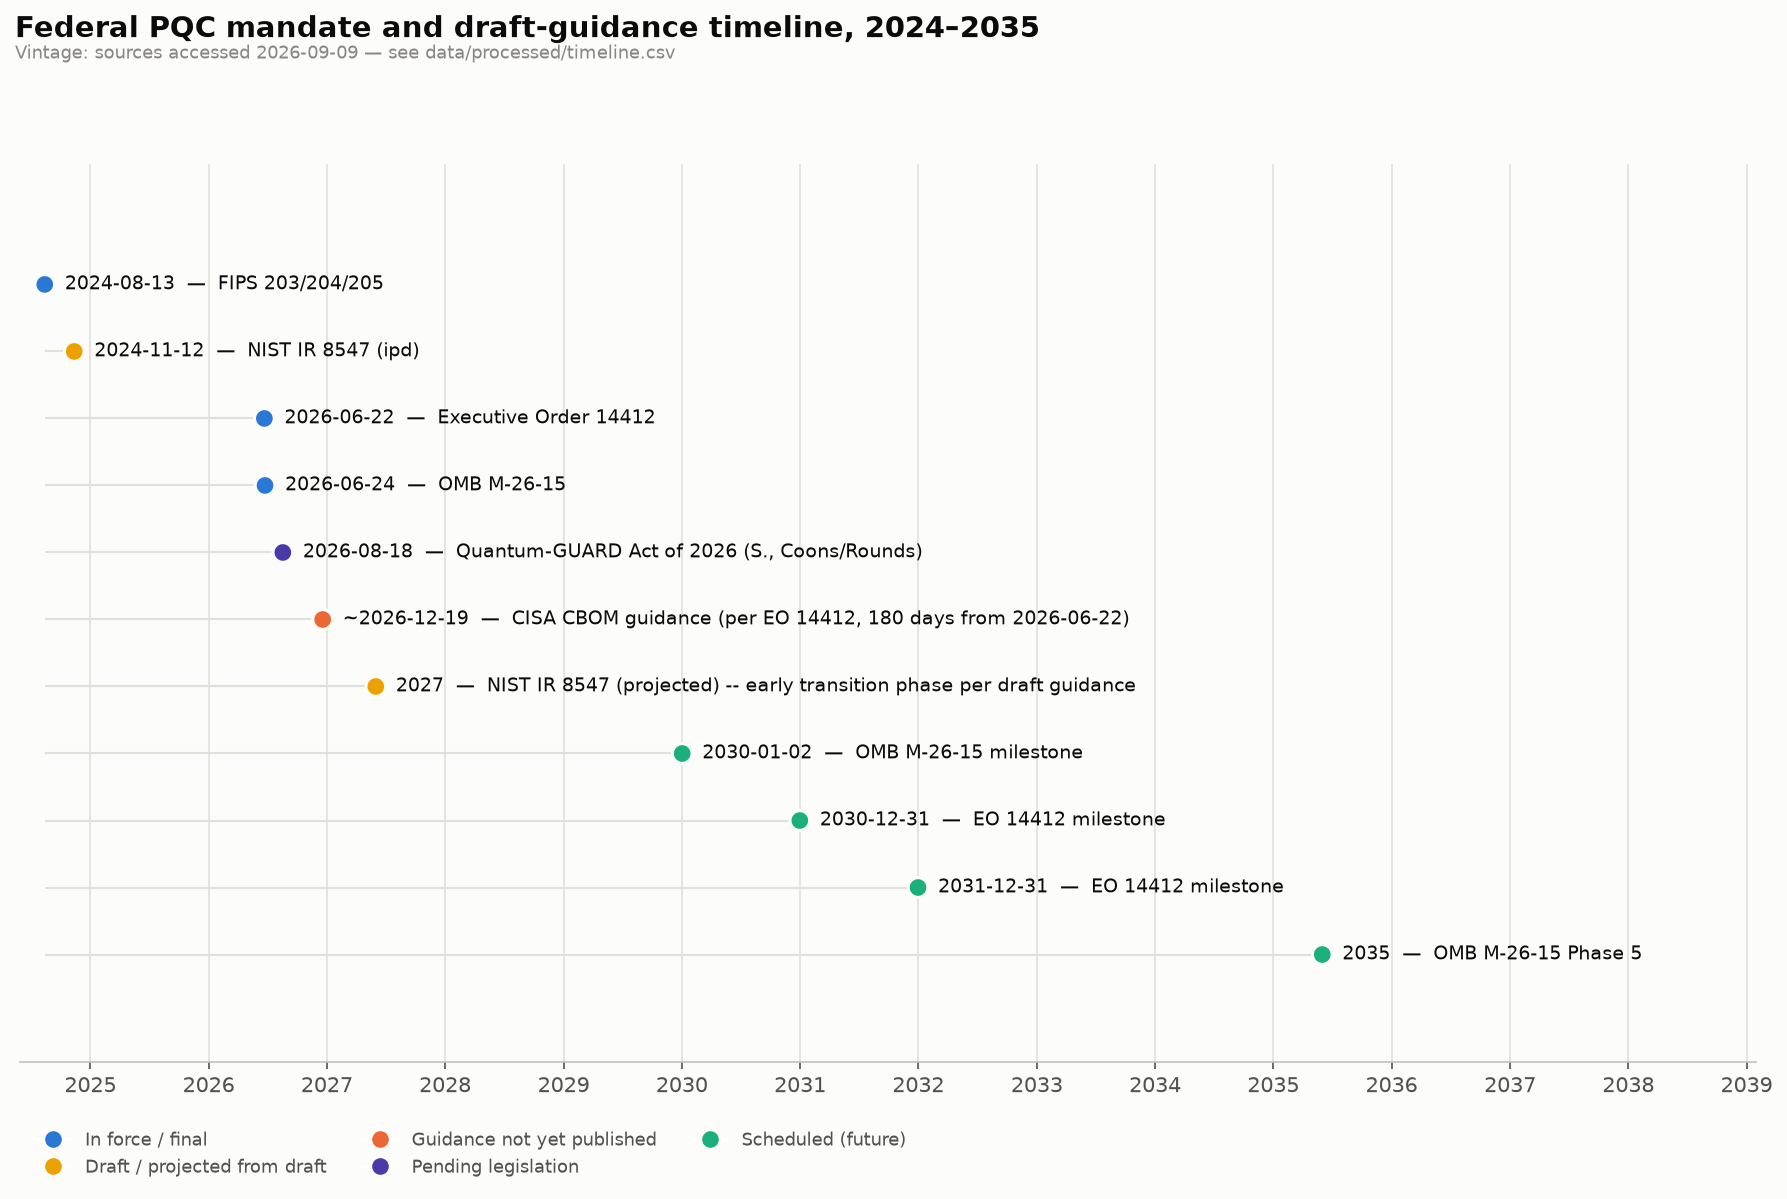
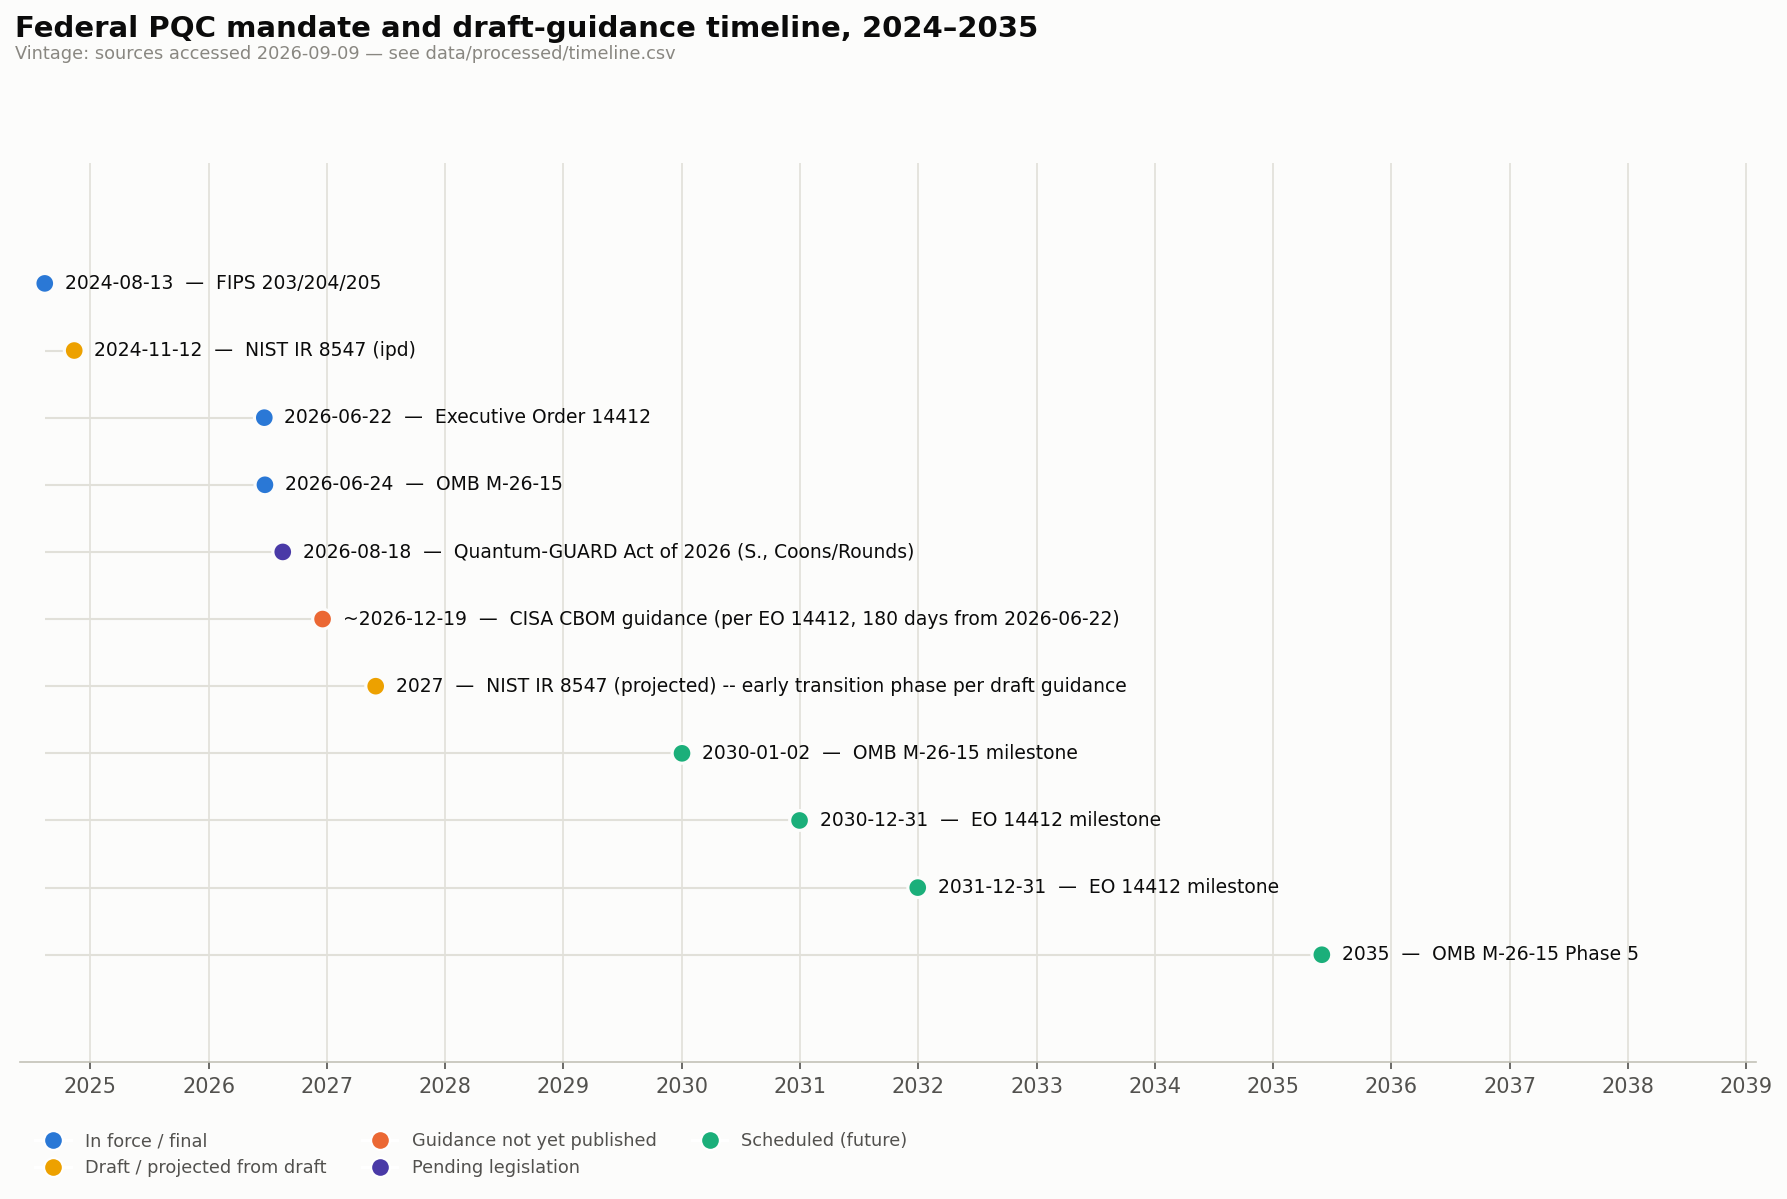
Update first-author affiliation

diff --git a/code/06_build_docx.js b/code/06_build_docx.js
@@ -55,7 +55,7 @@ const titleBlock = [
     new TextRun({ text: "Eria Othieno Pinyi" }), new TextRun({ text: "³ · " }),
     new TextRun({ text: "David Mike-Ewewie" }), new TextRun({ text: "⁴" }),
   ]}),
-  new Paragraph({ alignment: AlignmentType.CENTER, spacing: { after: 60 }, children: [new TextRun({ text: "¹ Independent Researcher, Odessa, Texas, USA", size: 18 })] }),
+  new Paragraph({ alignment: AlignmentType.CENTER, spacing: { after: 60 }, children: [new TextRun({ text: "¹ Independent Researcher - Critical Infrastructure, Odessa, Texas, USA", size: 18 })] }),
   new Paragraph({ alignment: AlignmentType.CENTER, spacing: { after: 60 }, children: [new TextRun({ text: "² Electrical and Electronic Engineering Department, Redeemer's University, Ede, Osun State, Nigeria", size: 18 })] }),
   new Paragraph({ alignment: AlignmentType.CENTER, spacing: { after: 60 }, children: [new TextRun({ text: "³ Computer Science and Engineering Department, University of Fairfax, USA", size: 18 })] }),
   new Paragraph({ alignment: AlignmentType.CENTER, spacing: { after: 200 }, children: [new TextRun({ text: "⁴ Computer Science Department, University of Texas Permian Basin, Odessa, Texas, USA", size: 18 })] }),
@@ -71,7 +71,7 @@ const titleBlock = [
     link("Friday.ikwuogu@gmail.com", "mailto:Friday.ikwuogu@gmail.com"),
   ]}),
   new Paragraph({ alignment: AlignmentType.CENTER, spacing: { after: 60 }, children: [
-    new TextRun({ text: "Affiliation: Independent Researcher, Odessa, Texas, USA", size: 18 }),
+    new TextRun({ text: "Affiliation: Independent Researcher - Critical Infrastructure, Odessa, Texas, USA", size: 18 }),
   ]}),
   new Paragraph({ alignment: AlignmentType.CENTER, spacing: { after: 300 }, children: [
     new TextRun({ text: "License: CC BY 4.0  ·  Version 1.0.0  ·  Date 2026-09-09  ·  DOI: pending (Zenodo)", size: 18, color: "52514E" }),
@@ -205,13 +205,33 @@ sections.push(p(
 
 sections.push(h("Acknowledgments", HeadingLevel.HEADING_2));
 sections.push(p(
-  "The authors thank no external funding source for this work. AI assistance (Claude, Anthropic) was used for source retrieval, data structuring, figure generation, and drafting mechanics under the corresponding author's direction and verification; all analytic judgments, the crosswalk's classifications, and every cited fact remain the authors' responsibility, subject to the verification gate documented in docs/VERIFY_CHECKLIST.md."
+  "The authors acknowledge that this work received no external funding. Manual and AI tools were employed to support source retrieval, data organization, figure preparation, and drafting operations under the direct supervision and verification of the corresponding author. All analytical interpretations, crosswalk classifications, and cited factual assertions remain solely the responsibility of the authors and are subject to the verification procedures outlined in docs/VERIFY_CHECKLIST.md."
 ));
 
 sections.push(h("References", HeadingLevel.HEADING_2));
 sections.push(p(
-  "Full citations with URLs and access dates are maintained in data/raw/PROVENANCE.txt to keep this reference list machine-checkable against what was actually retrieved. Headline sources: NIST FIPS 203, FIPS 204, FIPS 205 (2024); NIST IR 8547 (initial public draft, 2024); Executive Order 14412 (2026); OMB Memorandum M-26-15 (2026); Quantum-GUARD Act of 2026 (introduced, S., Coons/Rounds); Modbus Organization, Modbus/TCP Security Protocol Specification v3.6 (2021); OPC Foundation, OPC UA Part 2 (Security Model) and Part 7 (Profiles); DNP Users Group, DNP3 Secure Authentication v6 overview materials; IEC 62351 series (cited by part; summarized from secondary technical sources per Limitation L1)."
+  "Full citations, including URLs and access dates, are maintained in data/raw/PROVENANCE.txt to ensure that all references remain machine-checkable against the retrieved source corpus. The principal standards and policy documents informing this crosswalk include:"
 ));
+const referenceList = [
+  "NIST, Federal Information Processing Standard (FIPS) 203: Module-Lattice-Based Key-Establishment, 2024.",
+  "NIST, FIPS 204: Module-Lattice-Based Digital Signature Standard, 2024.",
+  "NIST, FIPS 205: Stateless Hash-Based Digital Signature Standard, 2024.",
+  "NIST, NIST Interagency Report (IR) 8547: Transition to Post-Quantum Cryptography Standards, Initial Public Draft, 2024.",
+  "Executive Office of the President, Executive Order 14412: Securing the Nation Against Advanced Cryptographic Attacks, 2026.",
+  "Office of Management and Budget, OMB Memorandum M-26-15: Execution of the Migration to Post-Quantum Cryptography, 2026.",
+  "U.S. Senate, Quantum-GUARD Act of 2026, introduced by Senators Coons and Rounds, 2026.",
+  "Modbus Organization, Modbus/TCP Security Protocol Specification, Version 3.6, 2021.",
+  "OPC Foundation, OPC Unified Architecture, Part 2: Security Model; Part 7: Profiles, various editions.",
+  "DNP Users Group, DNP3 Secure Authentication Version 6 Overview Materials, technical briefing documents.",
+  "International Electrotechnical Commission (IEC), IEC 62351 Series: Power System Security, cited by part; summarized from secondary technical sources per Limitation L1.",
+];
+referenceList.forEach((text, i) => {
+  sections.push(new Paragraph({
+    spacing: { after: 120 },
+    indent: { left: 360, hanging: 360 },
+    children: [new TextRun({ text: `${i + 1}. ${text}` })],
+  }));
+});
 
 const doc = new Document({
   sections: [{

diff --git a/report/PQC_Readiness_Crosswalk.md b/report/PQC_Readiness_Crosswalk.md
@@ -2,7 +2,7 @@
 
 **Friday Ogochukwu Ikwuogu**¹* · **Abidemi Orimogunje**² · **Eria Othieno Pinyi**³ · **David Mike-Ewewie**⁴
 
-¹ Independent Researcher, Odessa, Texas, USA
+¹ Independent Researcher - Critical Infrastructure, Odessa, Texas, USA
 ² Electrical and Electronic Engineering Department, Redeemer's University, Ede, Osun State, Nigeria
 ³ Computer Science and Engineering Department, University of Fairfax, USA
 ⁴ Computer Science Department, University of Texas Permian Basin, Odessa, Texas, USA
@@ -10,7 +10,7 @@
 *Corresponding author.
 ORCID: [0009-0009-2222-1318](https://orcid.org/0009-0009-2222-1318)
 Email: [Friday.ikwuogu@gmail.com](mailto:Friday.ikwuogu@gmail.com)
-Affiliation: Independent Researcher, Odessa, Texas, USA
+Affiliation: Independent Researcher - Critical Infrastructure, Odessa, Texas, USA
 
 **License:** CC BY 4.0 · **Version:** 1.0.0 · **Date:** 2026-09-09 · **Repository:** github.com/foikwuogu/PQC-Readiness-Crosswalk-for-Energy-OT-Protocols-and-Identity-Systems · **DOI:** pending (Zenodo)
 
@@ -284,36 +284,29 @@ it is relied upon.
 
 ## Acknowledgments
 
-The authors acknowledge that this work received no external funding
-Manual and AI-tools were employed to support source retrieval, data organization, 
-figure preparation, and drafting operations under the direct supervision and verification of the corresponding author.
-All analytical interpretations, crosswalk classifications, 
-and cited factual assertions remain solely the responsibility of the authors 
-and are subject to the verification procedures outlined in docs/VERIFY_CHECKLIST.md.
+The authors acknowledge that this work received no external funding. Manual
+and AI tools were employed to support source retrieval, data organization,
+figure preparation, and drafting operations under the direct supervision and
+verification of the corresponding author. All analytical interpretations,
+crosswalk classifications, and cited factual assertions remain solely the
+responsibility of the authors and are subject to the verification procedures
+outlined in `docs/VERIFY_CHECKLIST.md`.
 
 ## References
 
-Full citations, including URLs and access dates, are maintained in data/raw/PROVENANCE.txt to ensure that all references remain machine‑checkable against the retrieved source corpus. 
-The principal standards and policy documents informing this crosswalk include:
+Full citations, including URLs and access dates, are maintained in
+`data/raw/PROVENANCE.txt` to ensure that all references remain
+machine-checkable against the retrieved source corpus. The principal
+standards and policy documents informing this crosswalk include:
 
-NIST, Federal Information Processing Standard (FIPS) 203: Module-Lattice-Based Key-Establishment, 2024.
-
-NIST, FIPS 204: Module-Lattice-Based Digital Signature Standard, 2024.
-
-NIST, FIPS 205: Stateless Hash-Based Digital Signature Standard, 2024.
-
-NIST, NIST Interagency Report (IR) 8547: Post‑Quantum Cryptography Migration Planning, Initial Public Draft, 2024.
-
-Executive Office of the President, Executive Order 14412: Advancing Quantum‑Resilient Cybersecurity in Critical Infrastructure, 2026.
-
-Office of Management and Budget, OMB Memorandum M‑26‑15: Federal Post‑Quantum Cryptography Transition Requirements, 2026.
-
-U.S. Senate, Quantum‑GUARD Act of 2026, introduced by Senators Coons and Rounds, 2026.
-
-Modbus Organization, Modbus/TCP Security Protocol Specification, Version 3.6, 2021.
-
-OPC Foundation, OPC Unified Architecture, Part 2: Security Model; Part 7: Profiles, various editions.
-
-DNP Users Group, DNP3 Secure Authentication Version 6 Overview Materials, technical briefing documents.
-
-International Electrotechnical Commission (IEC), IEC 62351 Series: Power System Security, cited by part; summarized from secondary technical sources per Limitation L1.
+1. NIST, Federal Information Processing Standard (FIPS) 203: Module-Lattice-Based Key-Establishment, 2024.
+2. NIST, FIPS 204: Module-Lattice-Based Digital Signature Standard, 2024.
+3. NIST, FIPS 205: Stateless Hash-Based Digital Signature Standard, 2024.
+4. NIST, NIST Interagency Report (IR) 8547: Transition to Post-Quantum Cryptography Standards, Initial Public Draft, 2024.
+5. Executive Office of the President, Executive Order 14412: Securing the Nation Against Advanced Cryptographic Attacks, 2026.
+6. Office of Management and Budget, OMB Memorandum M-26-15: Execution of the Migration to Post-Quantum Cryptography, 2026.
+7. U.S. Senate, Quantum-GUARD Act of 2026, introduced by Senators Coons and Rounds, 2026.
+8. Modbus Organization, Modbus/TCP Security Protocol Specification, Version 3.6, 2021.
+9. OPC Foundation, OPC Unified Architecture, Part 2: Security Model; Part 7: Profiles, various editions.
+10. DNP Users Group, DNP3 Secure Authentication Version 6 Overview Materials, technical briefing documents.
+11. International Electrotechnical Commission (IEC), IEC 62351 Series: Power System Security, cited by part; summarized from secondary technical sources per Limitation L1.

diff --git a/README.md b/README.md
@@ -72,7 +72,17 @@ paywalled (see `docs/LIMITATIONS.md`, item L1).
 
 Thirteen crosswalk rows span ten named protocols/standards and twelve
 cryptographic functions. Six of the thirteen rows (46%) originally carried a
-review flag because an algorithm-parameter detail could not be confirmed from a directly machine-readable primary source inside this build's sandbox; the author has since checked each against the primary standard and signed off on 2026-09-09 — see `docs/VERIFY_CHECKLIST.md` for the record. NIST IR 8547, the roadmap every federal PQC plan is told to align with, remains an initial public draft with no second draft or final identified as of 2026-09-09. CISA's cryptographic-bill-of-materials guidance for critical infrastructure, due under EO 14412 around 2026-12-19, had not yet been published as of this build. The single hardest technical gap identified is row 9: IEC 61850 GOOSE/Sampled-Values protection messages carry a roughly 4 ms delivery budget that current-generation FIPS 204/205 signature sizes may not fit without a lighter-weight scheme.
+review flag because an algorithm-parameter detail could not be confirmed from
+a directly machine-readable primary source inside this build's sandbox; the
+author has since checked each against the primary standard and signed off on
+2026-09-09 — see `docs/VERIFY_CHECKLIST.md` for the record. NIST IR 8547, the roadmap every federal PQC plan
+is told to align with, remains an initial public draft with no second draft
+or final identified as of 2026-09-09. CISA's cryptographic-bill-of-materials
+guidance for critical infrastructure, due under EO 14412 around 2026-12-19,
+had not yet been published as of this build. The single hardest technical gap
+identified is row 9: IEC 61850 GOOSE/Sampled-Values protection messages carry
+a roughly 4 ms delivery budget that current-generation FIPS 204/205 signature
+sizes may not fit without a lighter-weight scheme.
 
 ## Limitations
 
